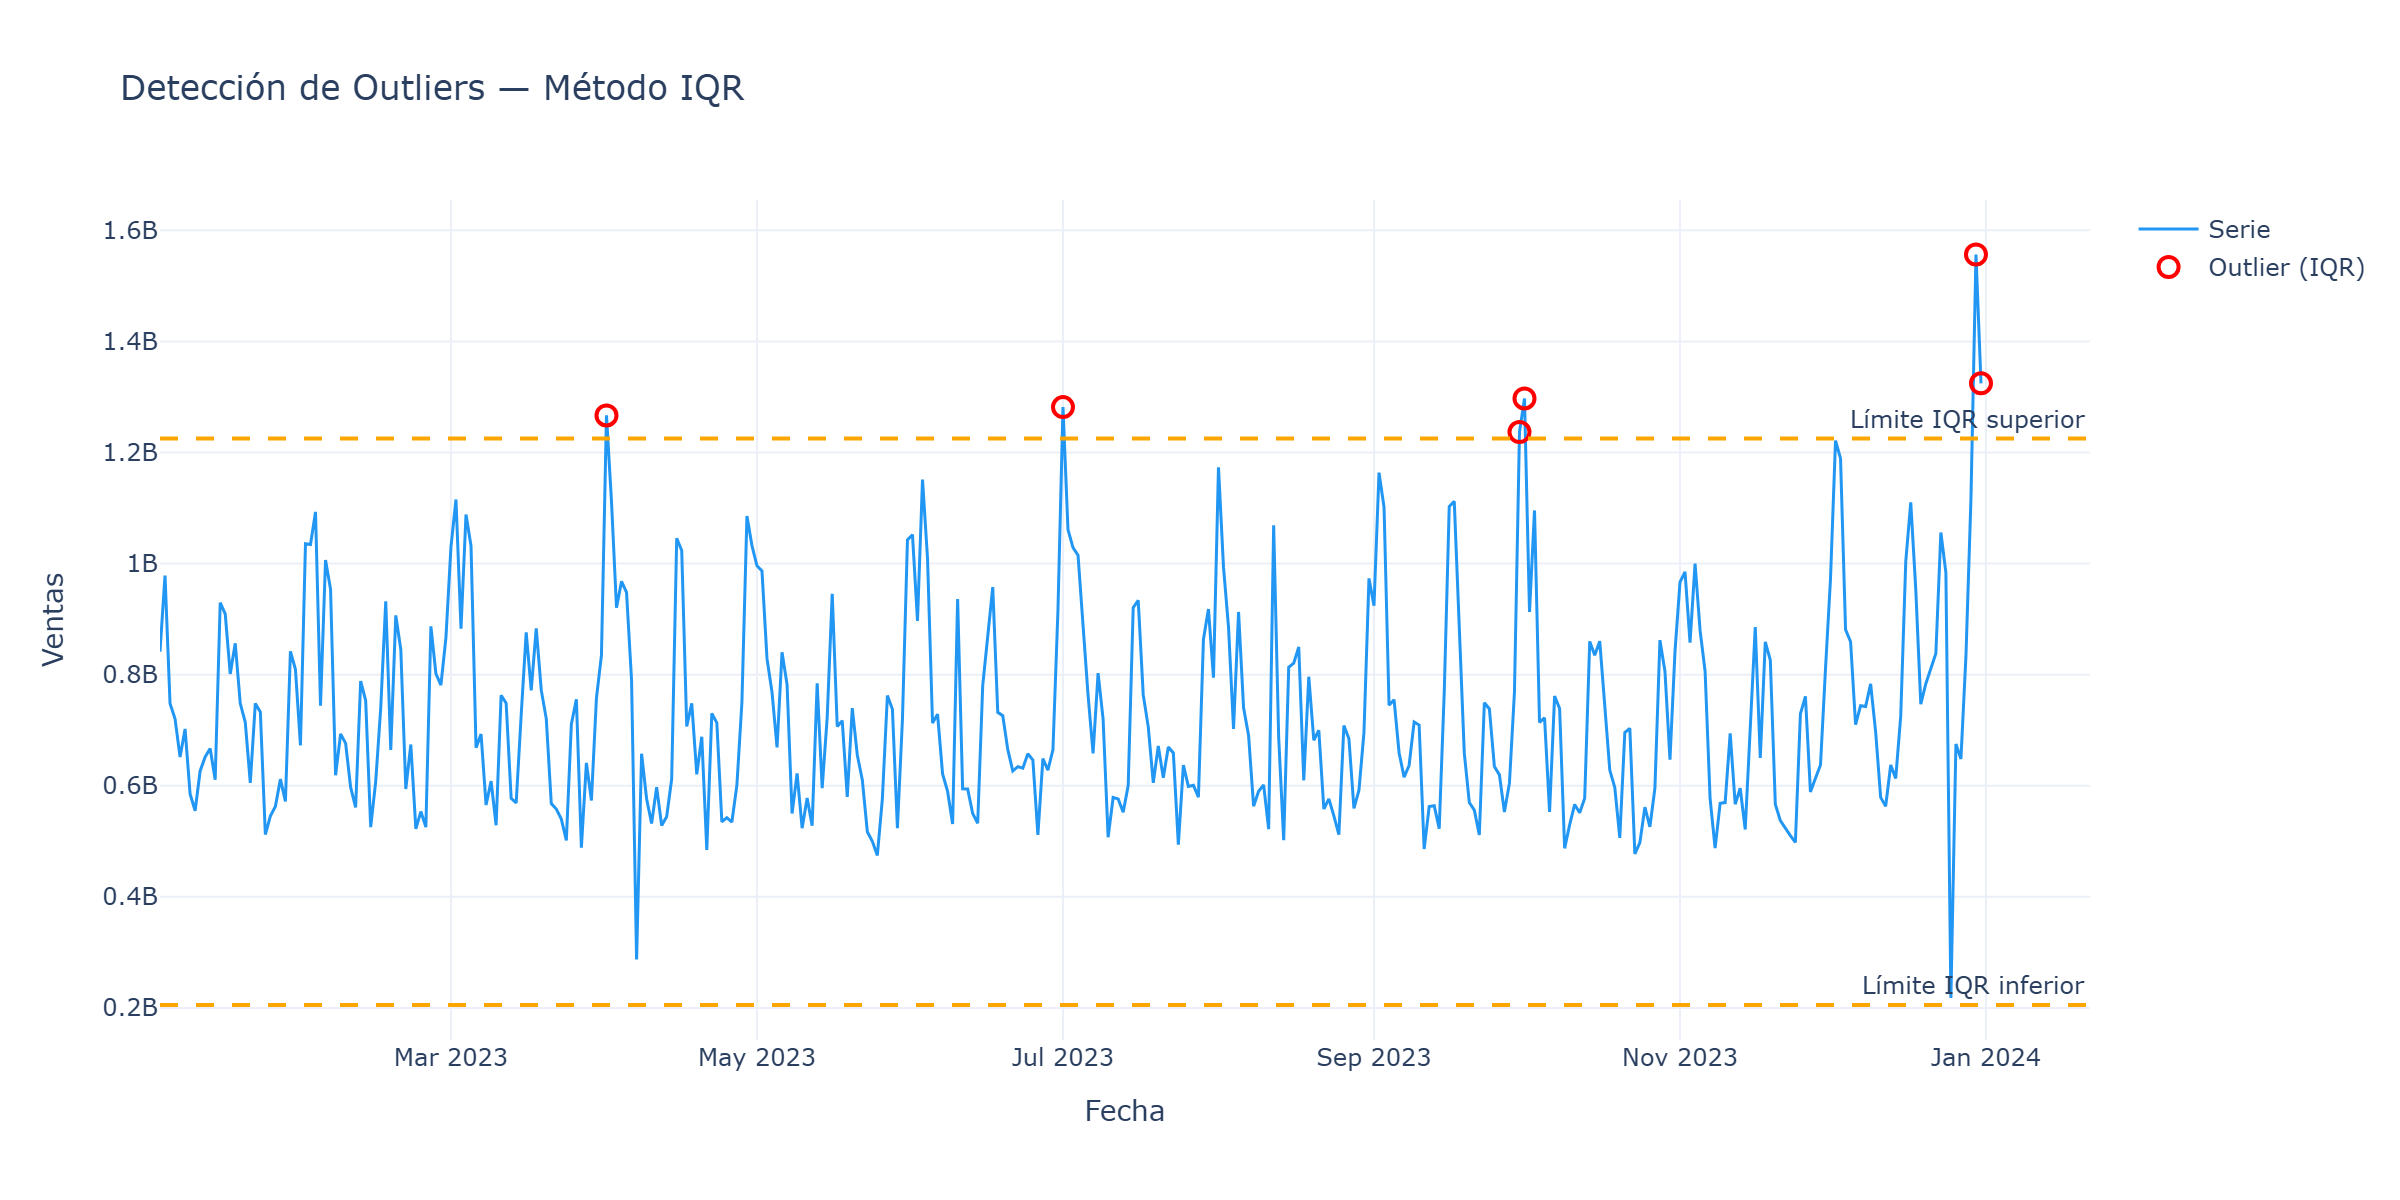
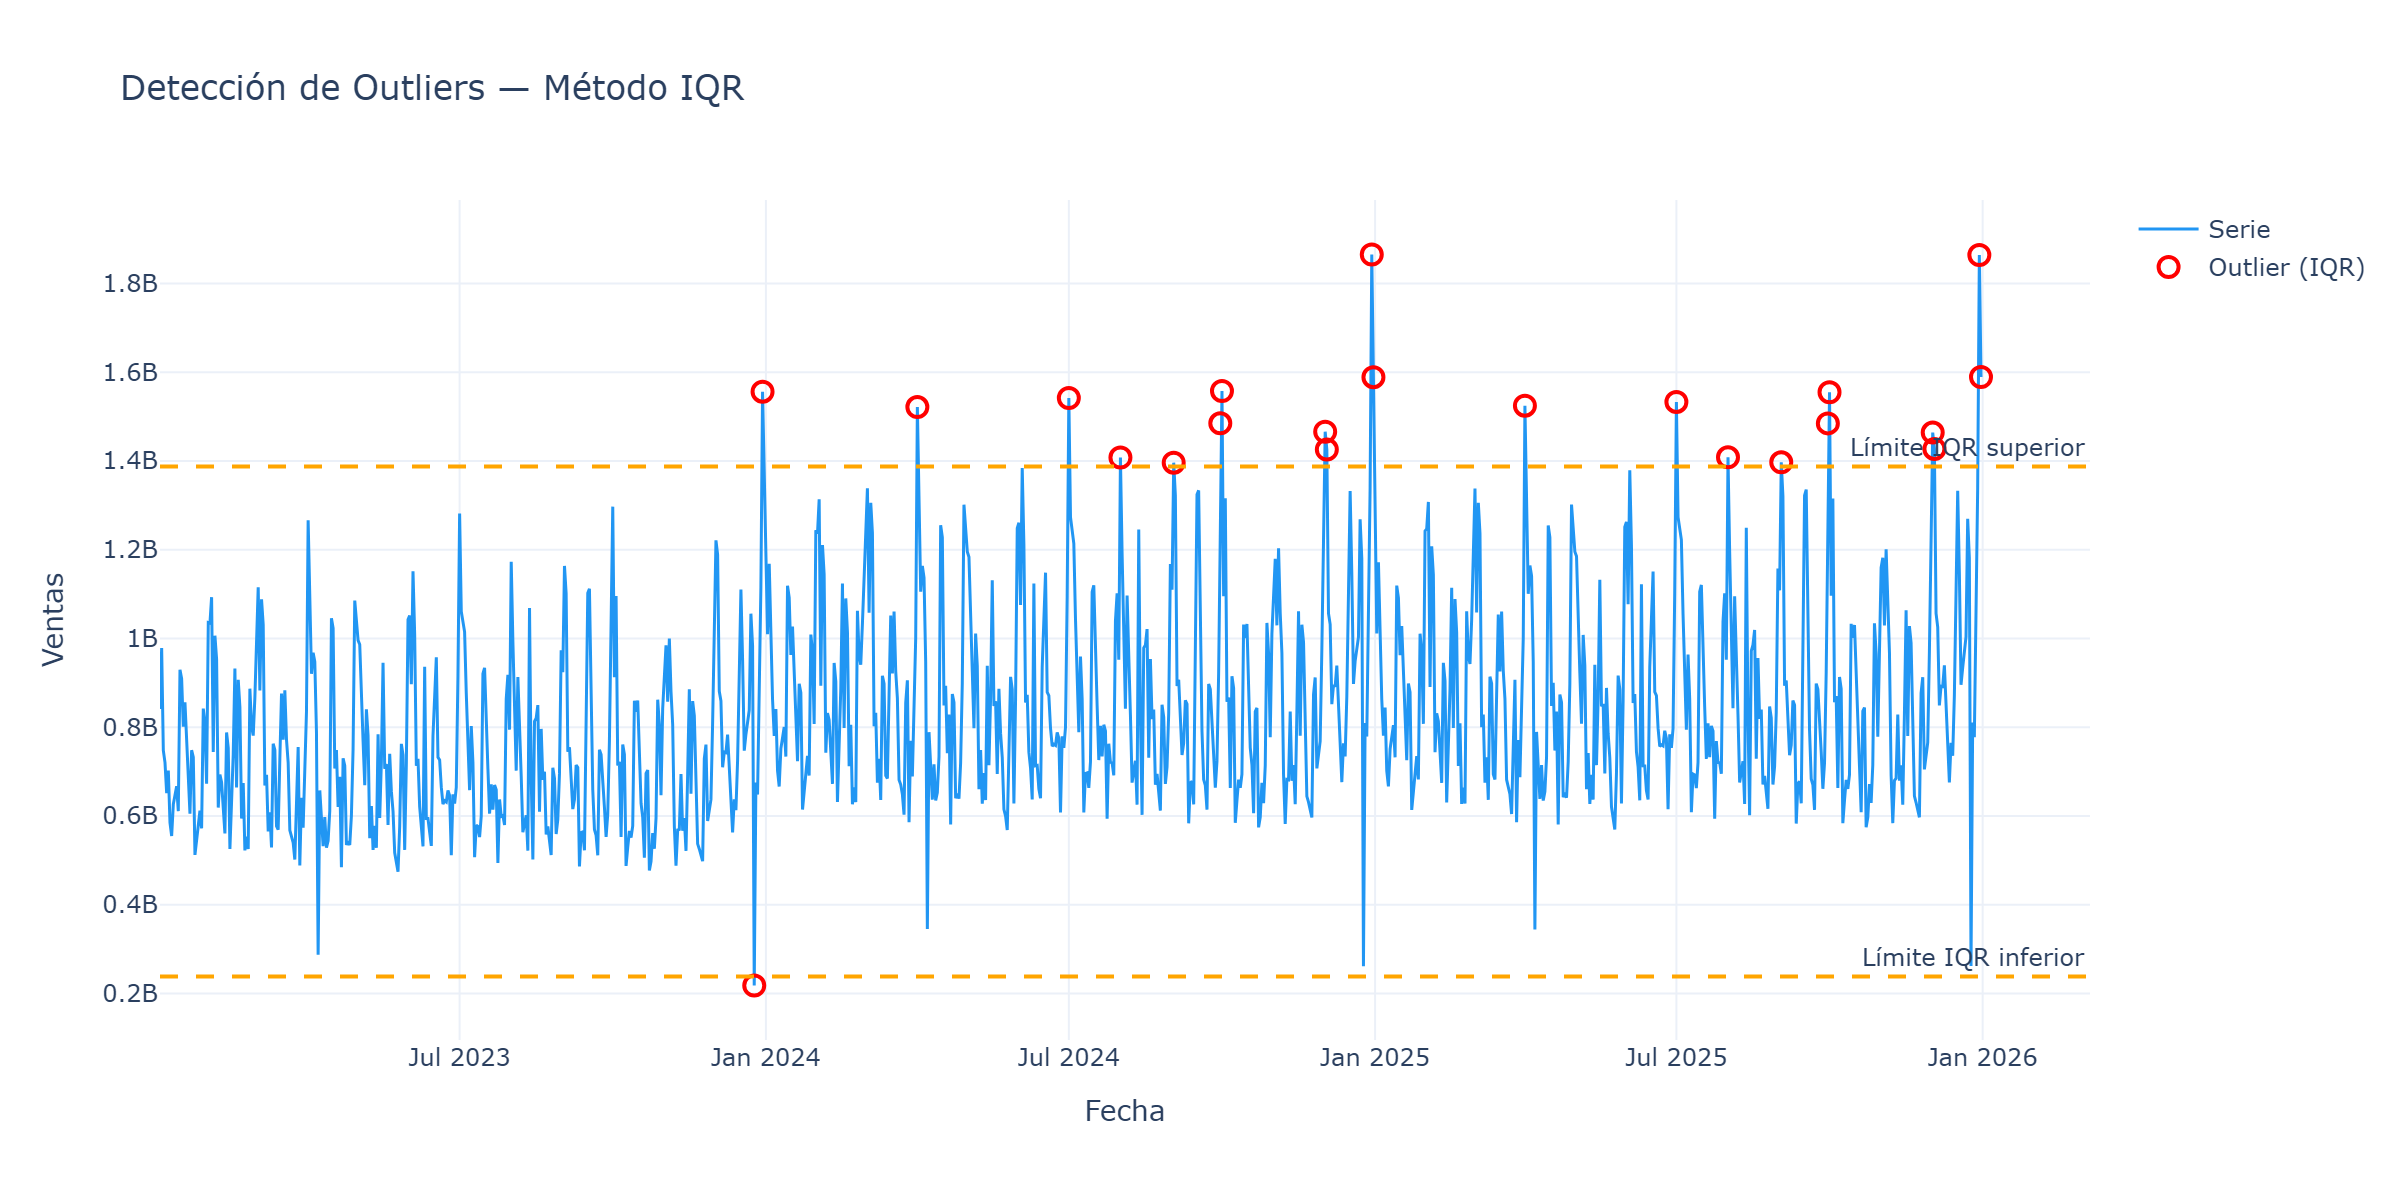
docs: README con resultados del dataset completo + tracing + chunked read (#21)
Actualiza el README al estado actual tras el reentrenamiento con el CSV
crudo de 17 GB:

- §6 estado: agrega MLflow Tracing como funcional.
- §6.1 resultados: AutoARIMA pasa a ser el mejor modelo (MAPE 20.96 %)
  por delante de MSTL (22.13 %) — con la agregación diaria sobre todo
  el histórico crudo, ARIMA estacional captura mejor la señal.
- §9.5.1 sección nueva sobre tracing (@mlflow.trace + observability.py).
- §11 datos: documenta el chunked read con usecols + float32 (pico de
  RAM ~50 MB para CSVs de decenas de GB).

Incluye:
- reports/metrics/train_metrics.json con las métricas reales del último
  run sobre el dataset completo.
- reports/figures/*.png regeneradas por featuring.py con los datos nuevos.

diff --git a/README.md b/README.md
@@ -137,33 +137,40 @@ MLflow Model Registry  ──►  sales-forecaster (Staging/Production)
 | App Streamlit (`app/streamlit_app.py`) | Funcional (KPIs, histórico vs pronóstico, fallback local) |
 | Prometheus + monitoreo | Funcional (scrape automático de `api:8000/metrics` cada 15 s) |
 | Docker Compose | Funcional (MLflow + API + Streamlit + Prometheus con `docker compose up`) |
+| MLflow Tracing (`@mlflow.trace`) | Funcional en data, featuring, train, predict y API — visible en tab **Traces** |
 | Tests | Pendiente |
 
 ## 6.1 Resultados del baseline actual
 
-Ejecutando `python -m src.train` sobre el histórico de 2023 (728 obs, 2 series),
-con backtest temporal de 3 ventanas y horizonte de 30 días:
+Ejecutando `python -m src.train` sobre el histórico procesado (agregado diario,
+2 series `valor_neto` y `valor_costo`), con backtest temporal de 3 ventanas y
+horizonte de 30 días:
 
-| Modelo | MAPE promedio | R² `valor_neto` | R² `valor_costo` |
-|---|---:|---:|---:|
-| **MSTL([7, 30])** ★ | **20.98 %** | 0.02 | 0.13 |
-| AutoARIMA(7) | 21.44 % | 0.16 | 0.24 |
-| HistoricAverage | 23.00 % | −0.01 | −0.02 |
-| SeasonalNaive(7) | 31.12 % | −0.93 | −0.80 |
-| Naive | 40.45 % | −0.76 | −0.92 |
-| AutoTheta(7) | 48.40 % | −1.34 | −1.79 |
-| AutoETS(7) | 67.71 % | −2.83 | −5.64 |
+| Modelo | MAPE promedio |
+|---|---:|
+| **AutoARIMA(7)** ★ | **20.96 %** |
+| HistoricAverage | 21.88 % |
+| MSTL([7, 30]) | 22.13 % |
+| SeasonalNaive(7) | 31.11 % |
+| Naive | 40.55 % |
+| AutoTheta(7) | 42.22 % |
+| AutoETS(7) | 60.36 % |
 
-**Mejor modelo:** MSTL — captura la doble estacionalidad semanal + mensual (calza
-con el patrón quincenal del DIB).
+**Mejor modelo:** AutoARIMA — con el dataset crudo completo (17 GB de
+transacciones agregadas a nivel diario), ARIMA estacional captura mejor la
+señal que MSTL. Las métricas detalladas por serie viven en
+[`reports/metrics/train_metrics.json`](reports/metrics/train_metrics.json).
 
 **Lectura honesta del resultado:**
 
 - El KPI del DIB es MAPE ≤ 10 %; el mejor baseline está en ~21 %. La brecha es
   esperable sin variables exógenas (clima, promociones, calendario de festivos
-  de Cali) y con sólo 1 año de histórico.
-- Sólo MSTL y AutoARIMA logran R² positivo. Los demás pierden contra la media.
-- AutoETS falla muy mal — probable sensibilidad a outliers en la serie.
+  de Cali) y a nivel agregado global.
+- AutoARIMA gana al pre-agregar el dataset crudo (decenas de millones de
+  transacciones) por día. Con la agregación, la señal estacional ARIMA captura
+  mejor que MSTL.
+- AutoETS y AutoTheta fallan más — probable sensibilidad a outliers post-
+  agregación; vale la pena revisar la limpieza de extremos.
 
 **Próximos pasos para cerrar la brecha (en próximos PRs):**
 
@@ -247,6 +254,17 @@ python -m src.register_model
 
 Verlo en MLflow UI → tab **Models** → `sales-forecaster` → versión con alias `@production`.
 
+### 9.5.1 Tracing (observabilidad fina)
+
+Todas las funciones críticas del pipeline (data, featuring, train, predict, API)
+están decoradas con `@mlflow.trace`. Al correr cualquier paso del pipeline, en
+MLflow UI → tab **Traces** se ve la cascada de spans con duración por función —
+útil para identificar cuellos de botella (típicamente `evaluate_with_cv` en
+train).
+
+`src/observability.py` configura el tracking automáticamente al importarse
+desde cualquier módulo. No hay paso manual extra.
+
 ### 9.6 API FastAPI
 
 ```bash
@@ -306,12 +324,18 @@ conectarlo.
 
 - **Granularidad de modelado:** diaria, sobre ventas agregadas a nivel global.
 - **Series predichas:** `valor_neto` y `valor_costo`.
-- **Histórico requerido:** ~1 año disponible en `data_consolidada.csv`.
+- **Histórico:** ~1 año en `data_consolidada.csv` (decenas de millones de
+  transacciones, ~17 GB crudo).
 - **Formato Nixtla:** `unique_id`, `ds`, `y` para compatibilidad con
   StatsForecast / NeuralForecast.
 
-> El dataset crudo (~5.5 GB) y los procesados quedan fuera del repo
-> (`.gitignore`). Compartir vía canal interno del equipo.
+**Procesamiento eficiente:** `src/data.py` lee el CSV crudo en chunks de
+2M filas con `usecols + float32`, agregando por día sobre la marcha. Pico
+de RAM ~50 MB independientemente del tamaño del CSV, así que corre cómodo
+en máquinas de 8–32 GB.
+
+> El dataset crudo y los procesados quedan fuera del repo (`.gitignore`).
+> Compartir vía canal interno del equipo.
 
 ## 12. Flujo de trabajo Git
 
